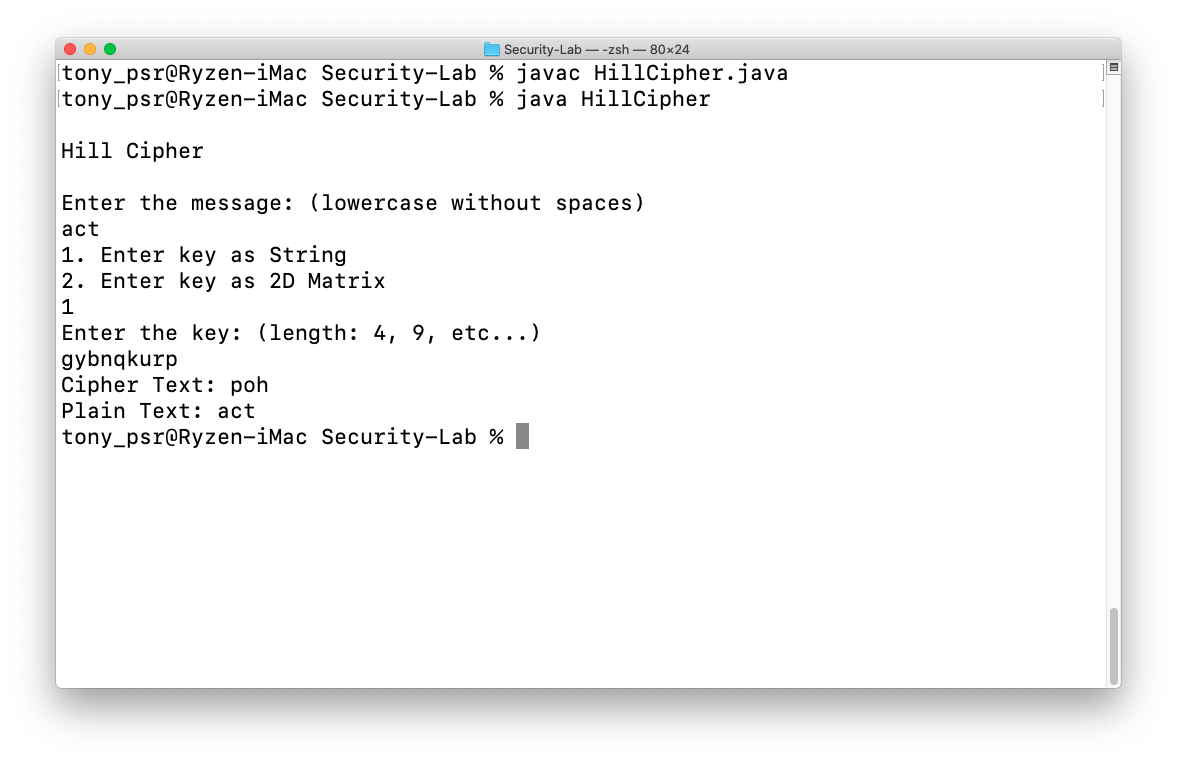
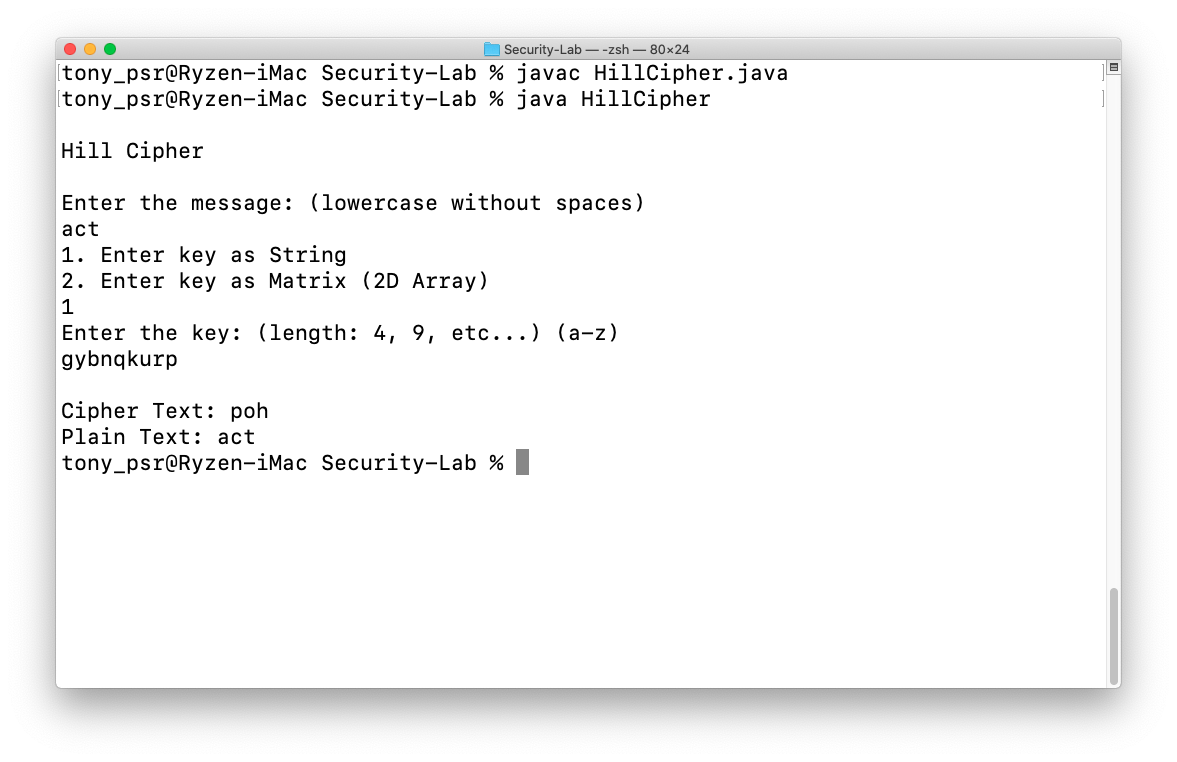
Updated sample output

Changed region(s): [[0.0306, 0.4829, 0.4588, 0.6339], [0.2141, 0.3622, 0.4282, 0.3924], [0.4588, 0.4226, 0.52, 0.4528]]

diff --git a/src/com/company/tonypsr/substitution_and_transposition_ciphers/HillCipher.java b/src/com/company/tonypsr/substitution_and_transposition_ciphers/HillCipher.java
@@ -234,6 +234,8 @@ public class HillCipher {
             System.out.println("Invalid choice");
         }
 
+        System.out.println();
+
         String cipherText = encrypt(message, key);
         System.out.println("Cipher Text: " + cipherText);
 
